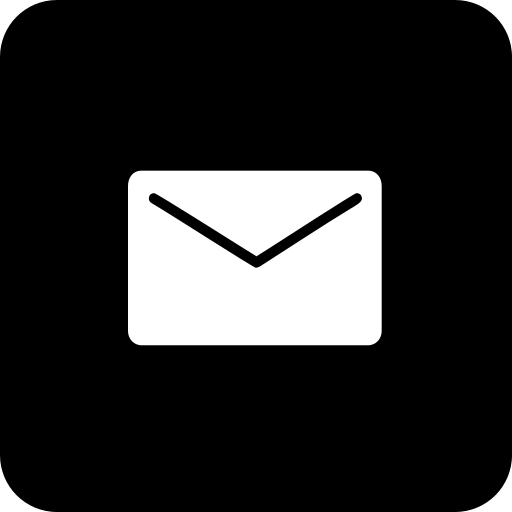
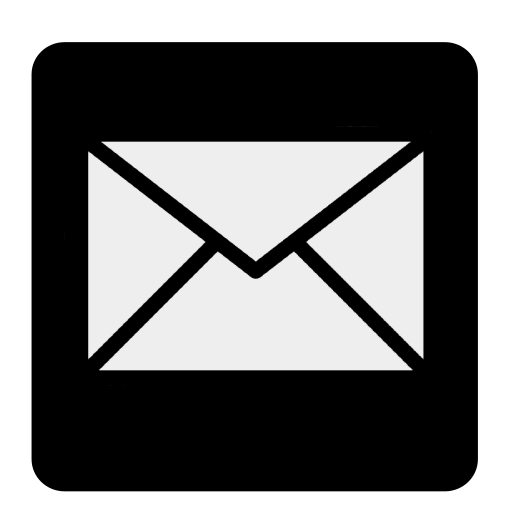
work it

diff --git a/new/linkedin/index.html b/new/linkedin/index.html
@@ -1,0 +1,15 @@
+<!DOCTYPE html>
+<html>
+  <head>
+    <meta charset="utf-8">
+    <meta name="viewport" content="width=device-width">
+    <meta http-equiv = "refresh" content = "0 ; url = https://www.linkedin.com/in/collinkatz/"/>
+    <title>Collin Katz</title>
+    <link rel="icon" href="/assets/favicon.png">
+    <link href="/style.css" rel="stylesheet" type="text/css" />
+  </head>
+  <body>
+    <h1>Redirecting...</h1>
+    <h4>You are being directed to my LinkedIn. If you aren't automatically redirected, click <a href="https://www.linkedin.com/in/collinkatz/">here</a>.</h4>
+  </body>
+</html>

diff --git a/new/github/index.html b/new/github/index.html
@@ -1,0 +1,15 @@
+<!DOCTYPE html>
+<html>
+  <head>
+    <meta charset="utf-8">
+    <meta name="viewport" content="width=device-width">
+    <meta http-equiv = "refresh" content = "0 ; url = https://github.com/KatzKingdom"/>
+    <title>Collin Katz</title>
+    <link rel="icon" href="/assets/favicon.png">
+    <link href="/style.css" rel="stylesheet" type="text/css" />
+  </head>
+  <body>
+    <h1>Redirecting...</h1>
+    <h4>You are being directed to my Github. If you aren't automatically redirected, click <a href="https://github.com/KatzKingdom">here</a>.</h4>
+  </body>
+</html>

diff --git a/new/pages/contact.html b/new/pages/contact.html
@@ -2,7 +2,7 @@
 <p class="text">
     I hope to stay in touch! Below are some nifty links featuring the best ways to get in contact with me.
     <br><br>
-    <a class="social" href="linkedin">
-        <img class="icon" src="assets/linkedin.png">
-    </a>
+    <a href="mailto:collin@katz.gg"><img class="social-icon" src="assets/email.png"></a>
+    <a href="linkedin" target="_blank"><img class="social-icon" src="assets/linkedin.png"></a>
+    <a href="github" target="_blank"><img class="social-icon" src="assets/linkedin.png"></a>
 </p>

diff --git a/moji/index.html b/moji/index.html
@@ -5,7 +5,7 @@
     <meta name="viewport" content="width=device-width">
     <meta http-equiv = "refresh" content = "0 ; url = https://web.archive.org/web/20221130065447/https://mojibot.xyz/"/>
     <title>Katz</title>
-    <link rel="icon" href="/images/icon.png">
+    <link rel="icon" href="/assets/icon.png">
     <link href="/style.css" rel="stylesheet" type="text/css" />
   </head>
   <body>

diff --git a/rice/index.html b/rice/index.html
@@ -5,7 +5,7 @@
     <meta name="viewport" content="width=device-width">
     <meta http-equiv = "refresh" content = "0 ; url = https://sldr.page.link/3NXp"/>
     <title>Katz</title>
-    <link rel="icon" href="/images/icon.png">
+    <link rel="icon" href="/assets/icon.png">
     <link href="/style.css" rel="stylesheet" type="text/css" />
   </head>
   <body>

diff --git a/new/style.css b/new/style.css
@@ -112,6 +112,7 @@ nav {
     margin-bottom: 20px;
 }
 
-.icon {
+/* Contact page */
+.social-icon {
     width: 4rem;
 }
